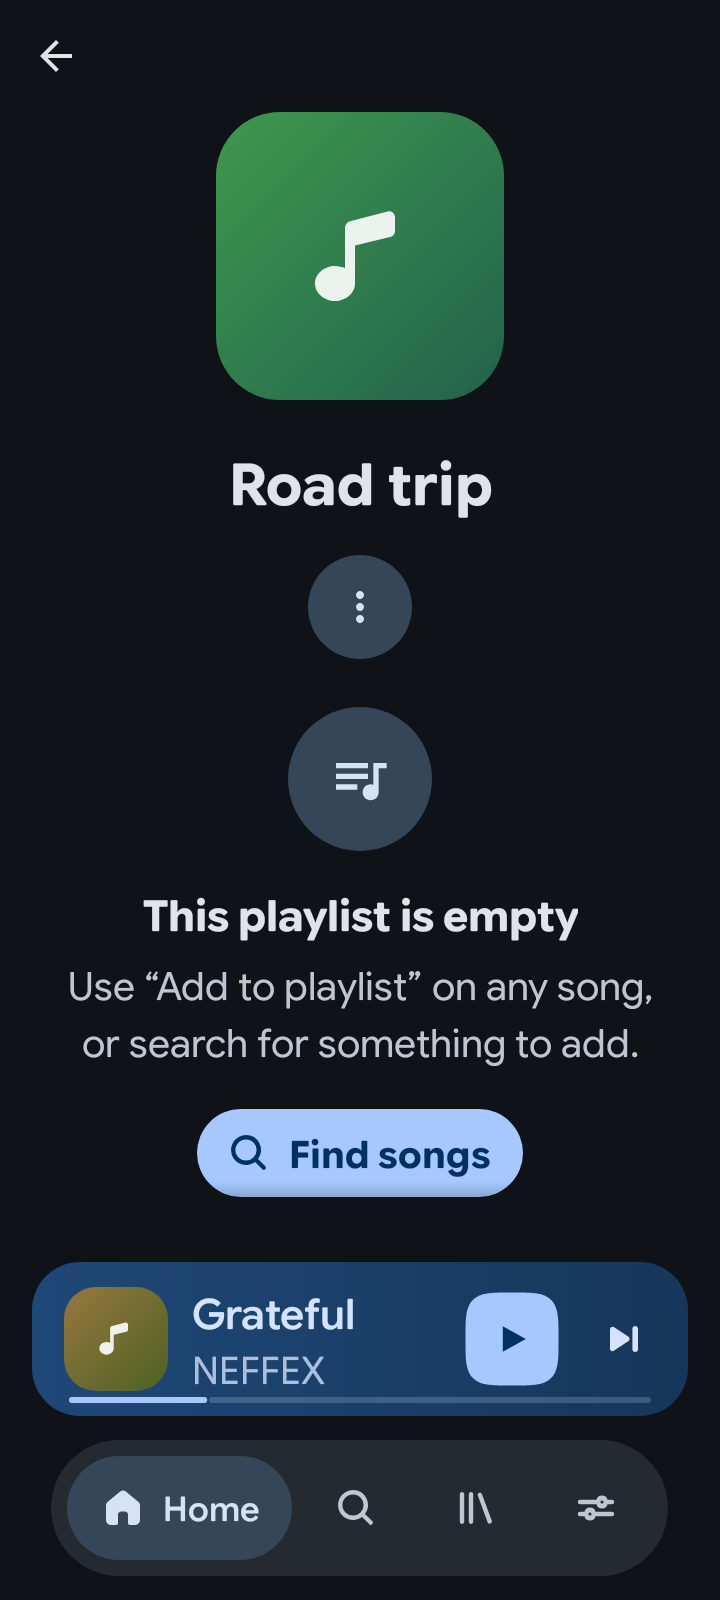
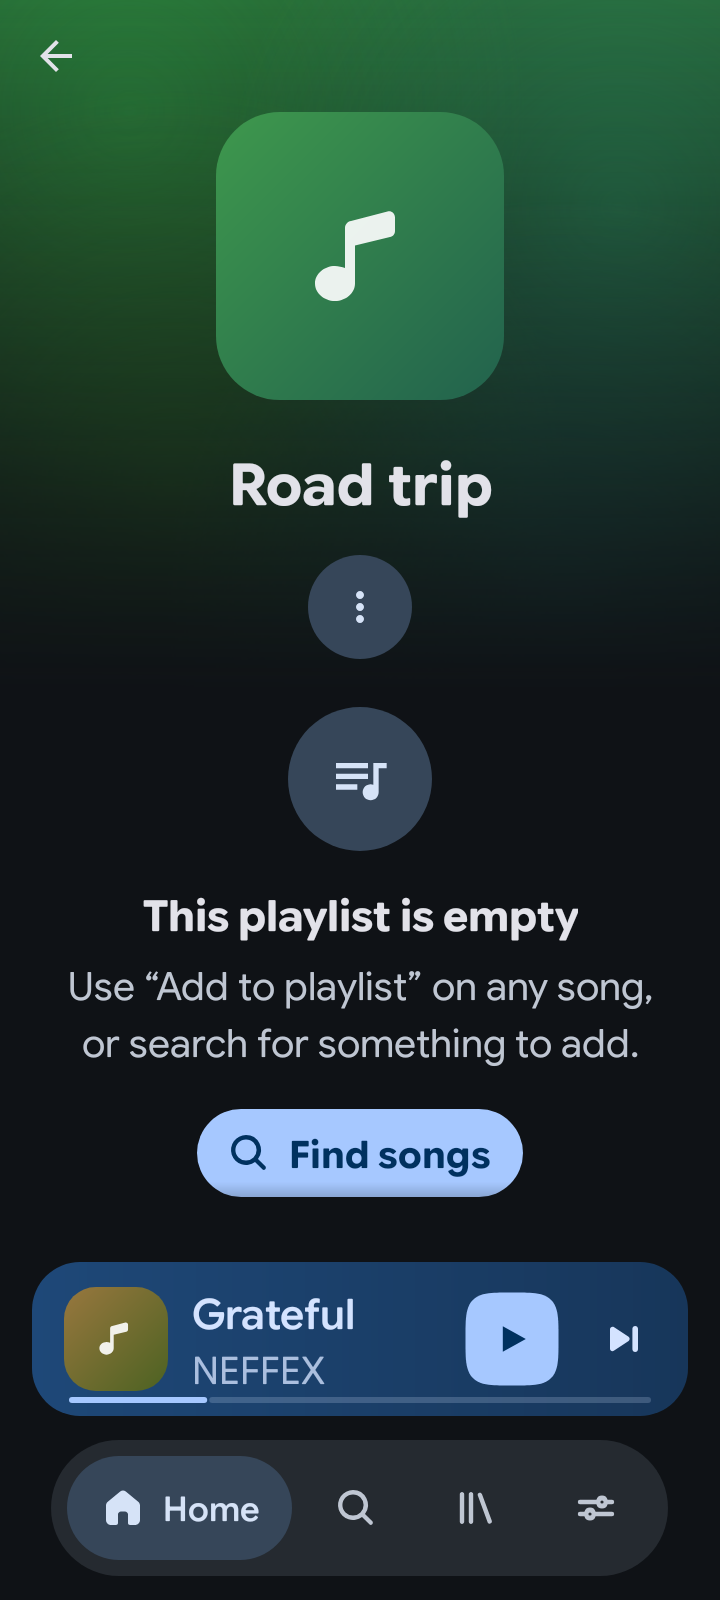
U2: list headers get a soft backdrop tinted from their content (AmbientBackdropView SOFT; cover / playlist cover / brand colour) + u2-tint-* renders
Claude-Session: https://claude.ai/code/session_01Vs9o5GYUVh6nkyc9RDeAP9

Changed region(s): [[0.0, 0.0, 1.0, 0.3125]]

diff --git a/app/src/testDebug/java/com/mhrsdev/musicplayer/U2RenderTest.java b/app/src/testDebug/java/com/mhrsdev/musicplayer/U2RenderTest.java
@@ -111,6 +111,43 @@ public class U2RenderTest {
         save(a, null, "library-hub-dark");
     }
 
+    // ---- content-tinted headers ----
+
+    @Test @Config(sdk = 35, qualifiers = DARK)
+    public void tintAlbumDark() throws Exception { tint(ScreenNavigator.TrackList.ALBUM, "tint-album-dark"); }
+
+    @Test @Config(sdk = 35, qualifiers = LIGHT)
+    public void tintAlbumLight() throws Exception { tint(ScreenNavigator.TrackList.ALBUM, "tint-album-light"); }
+
+    @Test @Config(sdk = 35, qualifiers = DARK)
+    public void tintArtistDark() throws Exception { tint(ScreenNavigator.TrackList.ARTIST, "tint-artist-dark"); }
+
+    @Test @Config(sdk = 35, qualifiers = LIGHT)
+    public void tintArtistLight() throws Exception { tint(ScreenNavigator.TrackList.ARTIST, "tint-artist-light"); }
+
+    @Test @Config(sdk = 35, qualifiers = DARK)
+    public void tintPlaylistDark() throws Exception { tint(ScreenNavigator.TrackList.PLAYLIST, "tint-playlist-dark"); }
+
+    @Test @Config(sdk = 35, qualifiers = LIGHT)
+    public void tintPlaylistLight() throws Exception { tint(ScreenNavigator.TrackList.PLAYLIST, "tint-playlist-light"); }
+
+    @Test @Config(sdk = 35, qualifiers = DARK)
+    public void tintLikedDark() throws Exception { tint(ScreenNavigator.TrackList.LIKED, "tint-liked-dark"); }
+
+    private void tint(ScreenNavigator.TrackList kind, String name) throws Exception {
+        MainActivity a = start();
+        com.mhrsdev.musicplayer.di.AppContainer c = container(a);
+        String id = switch (kind) {
+            case ALBUM -> observe(c.library.getAlbums()).get(1).id();
+            case ARTIST -> observe(c.library.getArtists()).get(0).id();
+            case PLAYLIST -> firstPlaylist().id();
+            default -> null;
+        };
+        a.openTrackList(kind, id);
+        settle();
+        save(a, null, name);
+    }
+
     // ---- empty states (regression: the empty state used to overlap the header) ----
 
     @Test @Config(sdk = 35, qualifiers = "fa-w360dp-h800dp-night-xhdpi")

diff --git a/app/src/main/java/com/mhrsdev/musicplayer/ui/library/TrackListFragment.java b/app/src/main/java/com/mhrsdev/musicplayer/ui/library/TrackListFragment.java
@@ -406,6 +406,12 @@ public class TrackListFragment extends Fragment implements TrackAdapter.Listener
             List<String> covers = header == null ? List.of() : header.artworkUris();
             int seed = header == null ? 0 : header.seed();
             boolean playlist = kind == TrackList.PLAYLIST;
+            // soft content-tinted backdrop: the cover (playlist: its first cover), else the list's own colour;
+            // the widget ignores repeated sources, so rebinding never restarts the single cross-fade
+            if (header != null) {
+                h.b.backdrop.setSource(covers.isEmpty() ? null : covers.get(0),
+                        com.mhrsdev.musicplayer.ui.widget.PlaceholderArt.seedColor(seed), true);
+            }
             h.b.mosaic.setVisibility(playlist ? View.VISIBLE : View.GONE);
             h.b.art.setVisibility(playlist ? View.GONE : View.VISIBLE);
             if (playlist) {
